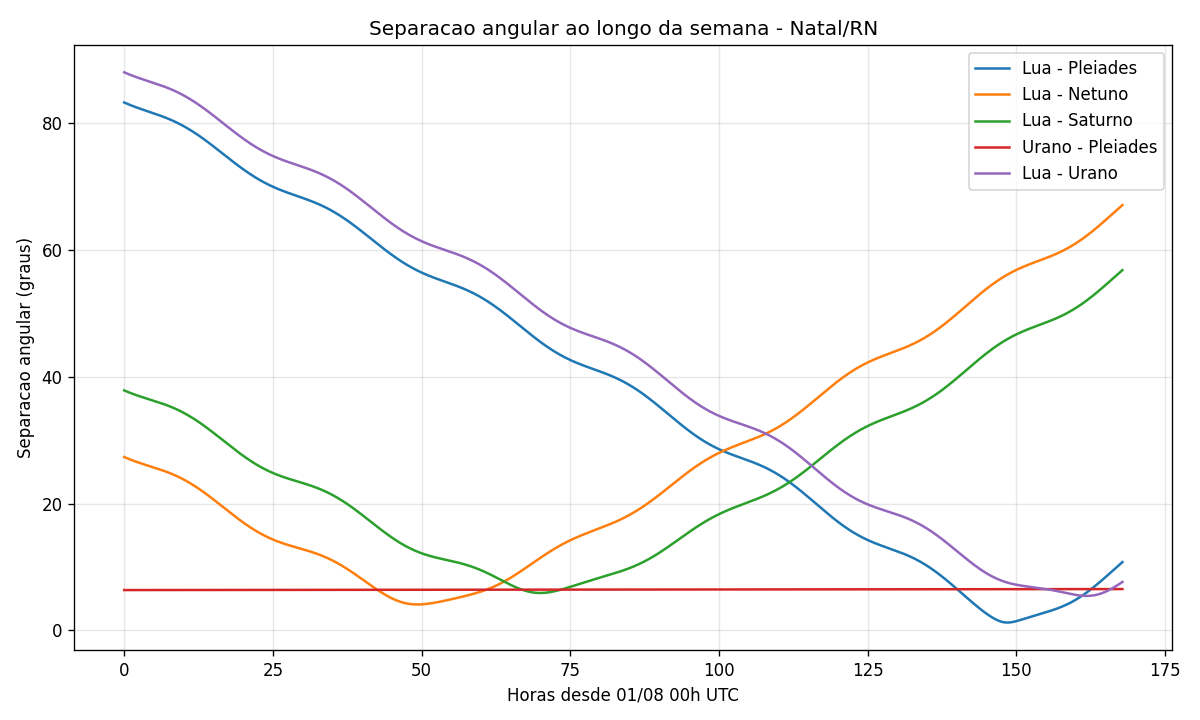
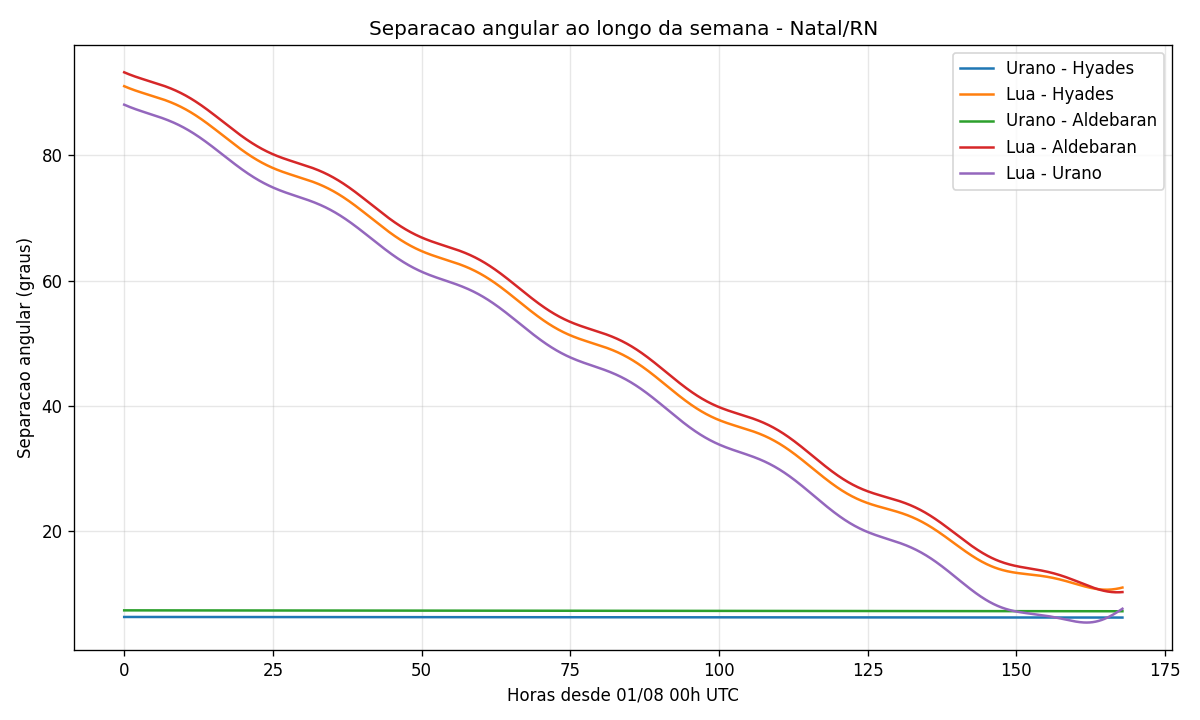
semanal

diff --git a/semanal.py b/semanal.py
@@ -1,9 +1,8 @@
 # Detector semanal de eventos astronomicos para o ceu de Natal/RN
-# Varre a janela dos proximos 7 dias e identifica aproximacoes (conjuncoes)
-# entre Lua, planetas e estrelas brilhantes, filtrando por visibilidade real
-# (altitude acima do horizonte e ceu escuro o suficiente).
-#
-# Para rodar toda semana, basta reexecutar o script: ele sempre parte de "hoje".
+# Varre a janela dos proximos 7 dias, identifica aproximacoes (conjuncoes)
+# entre Lua, planetas, estrelas, aglomerados e objetos de ceu profundo,
+# calcula um indice de qualidade de observacao para cada evento, agrupa os
+# alvos por tipo de sessao e monta um roteiro para a melhor noite da semana.
 
 import numpy as np
 import itertools
@@ -33,8 +32,10 @@ t = ts.utc(
     [h.hour for h in horarios], [h.minute for h in horarios]
 )
 
-# Catalogo de corpos a testar: nome, categoria, objeto skyfield
-# Para incluir mais estrelas, basta adicionar uma linha com RA/Dec (J2000)
+# Catalogo de corpos a testar: nome, categoria, objeto skyfield.
+# A categoria serve tanto para decidir quais pares comparar quanto para
+# classificar o tipo de sessao: sol, lua, planeta, estrela (referencia),
+# aglomerado (bom para binoculo) e profundo (ceu profundo, Messier).
 catalogo = []
 catalogo.append(('Sol', 'sol', eph['sun']))
 catalogo.append(('Lua', 'lua', eph['moon']))
@@ -50,11 +51,27 @@ catalogo.append(('Antares', 'estrela', Star(ra_hours=(16, 29, 24.4), dec_degrees
 catalogo.append(('Regulus', 'estrela', Star(ra_hours=(10, 8, 22.3), dec_degrees=(11, 58, 2))))
 catalogo.append(('Spica', 'estrela', Star(ra_hours=(13, 25, 11.6), dec_degrees=(-11, 9, 41))))
 catalogo.append(('Pollux', 'estrela', Star(ra_hours=(7, 45, 18.9), dec_degrees=(28, 1, 34))))
-catalogo.append(('Pleiades', 'estrela', Star(ra_hours=(3, 47, 0), dec_degrees=(24, 7, 0))))
+catalogo.append(('Albireo', 'estrela', Star(ra_hours=(19, 30, 43.3), dec_degrees=(27, 57, 35))))
+catalogo.append(('Pleiades', 'aglomerado', Star(ra_hours=(3, 47, 0), dec_degrees=(24, 7, 0))))
+catalogo.append(('Hyades', 'aglomerado', Star(ra_hours=(4, 27, 0), dec_degrees=(15, 52, 0))))
+catalogo.append(('M8', 'profundo', Star(ra_hours=(18, 3, 48), dec_degrees=(-24, 23, 12))))
+catalogo.append(('M22', 'profundo', Star(ra_hours=(18, 36, 24), dec_degrees=(-23, 54, 12))))
+catalogo.append(('M13', 'profundo', Star(ra_hours=(16, 41, 42), dec_degrees=(36, 28, 12))))
+catalogo.append(('M31', 'profundo', Star(ra_hours=(0, 42, 44), dec_degrees=(41, 16, 9))))
+
+# Magnitude aparente aproximada dos alvos nao-lunares. Usada para estimar a
+# facilidade de observacao (componente "magnitude" do indice de qualidade) e
+# para separar sessoes de iniciante de sessoes de desafio.
+magnitude_aproximada = {
+    'Mercurio': 0.5, 'Venus': -4.0, 'Marte': 0.5, 'Jupiter': -2.2, 'Saturno': 0.6,
+    'Urano': 5.8, 'Netuno': 7.8,
+    'Aldebaran': 0.85, 'Antares': 1.09, 'Regulus': 1.35, 'Spica': 0.97, 'Pollux': 1.14,
+    'Albireo': 3.1, 'Pleiades': 1.6, 'Hyades': 0.5,
+    'M8': 6.0, 'M22': 5.1, 'M13': 5.8, 'M31': 3.4,
+}
 
 # Calcula, de uma vez (vetorizado sobre toda a grade de tempo), a posicao
-# aparente de cada corpo. Guarda tambem o objeto "apparent" para usar depois
-# no calculo de separacao angular verdadeira entre pares.
+# aparente de cada corpo do catalogo.
 posicoes = {}
 for nome, categoria, corpo in catalogo:
     astrometrico = observador.at(t).observe(corpo).apparent()
@@ -62,19 +79,17 @@ for nome, categoria, corpo in catalogo:
     posicoes[nome] = {'categoria': categoria, 'alt': alt.degrees, 'az': az.degrees, 'apparent': astrometrico}
 
 alt_sol = posicoes['Sol']['alt']
-
-# Corpos brilhantes o suficiente para serem vistos ainda no crepusculo civil
 brilhantes = {'Lua', 'Venus', 'Jupiter', 'Mercurio'}
+fixos = {'estrela', 'aglomerado', 'profundo'}  # categorias cuja posicao relativa entre si nao muda
 
 nomes_para_comparar = [nome for nome, categoria, corpo in catalogo if categoria != 'sol']
 
 eventos = []
 
 for nome_a, nome_b in itertools.combinations(nomes_para_comparar, 2):
-    if posicoes[nome_a]['categoria'] == 'estrela' and posicoes[nome_b]['categoria'] == 'estrela':
-        continue  # duas estrelas fixas nao formam conjuncao, a distancia entre elas nao muda
+    if posicoes[nome_a]['categoria'] in fixos and posicoes[nome_b]['categoria'] in fixos:
+        continue  # dois objetos fixos nunca formam conjuncao, a distancia entre eles nao muda
 
-    # separacao angular verdadeira no ceu, nao a distancia euclidiana entre alt/az
     separacao = posicoes[nome_a]['apparent'].separation_from(posicoes[nome_b]['apparent']).degrees
 
     par_tem_corpo_brilhante = (nome_a in brilhantes) or (nome_b in brilhantes)
@@ -89,23 +104,69 @@ for nome_a, nome_b in itertools.combinations(nomes_para_comparar, 2):
     indice_minimo = int(np.argmin(separacao_visivel))
     separacao_minima = separacao_visivel[indice_minimo]
 
-    if separacao_minima < 15:
-        fracao_lua = None
-        if nome_a == 'Lua' or nome_b == 'Lua':
-            fracao_lua = almanac.fraction_illuminated(eph, 'moon', t[indice_minimo])
+    if separacao_minima >= 15:
+        continue
 
-        eventos.append({
-            'par': nome_a + ' - ' + nome_b,
-            'horario': horarios[indice_minimo],
-            'separacao': separacao_minima,
-            'alt_a': posicoes[nome_a]['alt'][indice_minimo],
-            'alt_b': posicoes[nome_b]['alt'][indice_minimo],
-            'az_a': posicoes[nome_a]['az'][indice_minimo],
-            'az_b': posicoes[nome_b]['az'][indice_minimo],
-            'fracao_lua': fracao_lua,
-        })
+    alt_a = posicoes[nome_a]['alt'][indice_minimo]
+    alt_b = posicoes[nome_b]['alt'][indice_minimo]
+    altitude_media = (alt_a + alt_b) / 2
+    altitude_minima = min(alt_a, alt_b)
 
-eventos.sort(key=lambda e: e['separacao'])
+    fracao_lua = None
+    if nome_a == 'Lua' or nome_b == 'Lua':
+        fracao_lua = almanac.fraction_illuminated(eph, 'moon', t[indice_minimo])
+
+    if nome_a == 'Lua':
+        outro_nome = nome_b
+    elif nome_b == 'Lua':
+        outro_nome = nome_a
+    else:
+        outro_nome = None
+
+    if outro_nome is not None and outro_nome in magnitude_aproximada:
+        magnitude_do_alvo = magnitude_aproximada[outro_nome]
+    else:
+        magnitudes_do_par = [magnitude_aproximada[n] for n in (nome_a, nome_b) if n in magnitude_aproximada]
+        magnitude_do_alvo = max(magnitudes_do_par) if len(magnitudes_do_par) > 0 else None
+
+    precisa_telescopio = magnitude_do_alvo is not None and magnitude_do_alvo > 5.5
+
+    tempo_acima_30 = np.sum(
+        visivel & (posicoes[nome_a]['alt'] > 30) & (posicoes[nome_b]['alt'] > 30)
+    ) * passo_minutos / 60
+
+    # Indice de qualidade da observacao, de 0 a 100, seguindo a ponderacao
+    # altitude 0,35 + ausencia da Lua 0,25 + magnitude 0,15 + tempo acima de
+    # 30 graus 0,15 + distancia do horizonte 0,10. Seeing, cobertura de
+    # nuvens, transparencia, umidade e vento nao entram ainda porque exigem
+    # uma previsao meteorologica ao vivo (por exemplo via Open-Meteo), o que
+    # fica bem como proximo passo separado deste script.
+    altitude_norm = min(altitude_media / 90, 1)
+    ausencia_lua = 1 - fracao_lua if fracao_lua is not None else 1
+    magnitude_norm = min(max((8 - magnitude_do_alvo) / 12, 0), 1) if magnitude_do_alvo is not None else 0.5
+    tempo_norm = min(tempo_acima_30 / 5, 1)
+    horizonte_norm = min(max(altitude_minima / 45, 0), 1)
+
+    score = 100 * (
+        0.35 * altitude_norm +
+        0.25 * ausencia_lua +
+        0.15 * magnitude_norm +
+        0.15 * tempo_norm +
+        0.10 * horizonte_norm
+    )
+
+    eventos.append({
+        'par': nome_a + ' - ' + nome_b,
+        'horario': horarios[indice_minimo],
+        'separacao': separacao_minima,
+        'alt_a': alt_a, 'alt_b': alt_b,
+        'az_a': posicoes[nome_a]['az'][indice_minimo], 'az_b': posicoes[nome_b]['az'][indice_minimo],
+        'fracao_lua': fracao_lua,
+        'precisa_telescopio': precisa_telescopio,
+        'score': score,
+    })
+
+eventos.sort(key=lambda e: e['score'], reverse=True)
 
 print('=' * 70)
 print('EVENTOS ASTRONOMICOS EM NATAL/RN')
@@ -116,22 +177,19 @@ for evento in eventos:
     print('')
     print(evento['par'])
     print('Horario local (UTC-3): ' + (evento['horario'] - timedelta(hours=3)).strftime('%d/%m %H:%M'))
-    print('Separacao angular: {:.1f} graus'.format(evento['separacao']))
+    print('Separacao angular: {:.1f} graus   Indice de qualidade: {:.1f}'.format(
+        evento['separacao'], evento['score']))
     print('Altitude: {:.1f} / {:.1f} graus   Azimute: {:.1f} / {:.1f} graus'.format(
         evento['alt_a'], evento['alt_b'], evento['az_a'], evento['az_b']))
     if evento['fracao_lua'] is not None:
         print('Lua iluminada: {:.0f}%'.format(evento['fracao_lua'] * 100))
-    if evento['separacao'] < 1:
-        print('Conjuncao bem fechada, cabe no mesmo campo de um telescopio de baixo aumento')
-    elif evento['separacao'] < 6:
-        print('Cabe no campo de um binoculo comum')
-    else:
-        print('Melhor apreciado a olho nu, campo largo')
+    if evento['precisa_telescopio']:
+        print('Alvo fraco, o binoculo pode nao ser suficiente, telescopio ajuda bastante aqui')
 
 if len(eventos) == 0:
     print('Nenhum evento com separacao menor que 15 graus nesta semana')
 
-# Grafico com a separacao angular ao longo do tempo para os 5 eventos mais fechados
+# Grafico com a separacao angular ao longo do tempo para os 5 eventos de maior indice de qualidade
 top_eventos = eventos[:5]
 if len(top_eventos) > 0:
     plt.figure(figsize=(10, 6))
@@ -149,89 +207,109 @@ if len(top_eventos) > 0:
     plt.savefig('separacao_semanal.png', dpi=120)
     plt.show()
 
-# Recomendacao final: separacao angular sozinha nao diz se o evento vale a pena.
-# Um alvo baixo no horizonte, uma Lua muito iluminada ofuscando o campo, ou um
-# objeto fraco demais para binoculo pesam contra o evento mesmo que a separacao
-# seja pequena. Esta secao monta uma pontuacao simples somando essas penalidades
-# (quanto menor a pontuacao, melhor a noite) e imprime a recomendacao da semana.
+# Painel da melhor noite da semana, no estilo "Observatorio Almeida"
+if len(eventos) > 0:
+    melhor_evento = eventos[0]
+    noite_data = (melhor_evento['horario'] - timedelta(hours=3)).date()
 
-# magnitude aparente aproximada dos alvos nao-lunares, usada so para saber se
-# o objeto e visivel a olho nu/binoculo (magnitude baixa) ou exige telescopio
-# (magnitude alta). Valores tipicos, planetas variam um pouco ao longo do ano.
-magnitude_aproximada = {
-    'Mercurio': 0.5,
-    'Venus': -4.0,
-    'Marte': 0.5,
-    'Jupiter': -2.2,
-    'Saturno': 0.6,
-    'Urano': 5.8,
-    'Netuno': 7.8,
-    'Aldebaran': 0.85,
-    'Antares': 1.09,
-    'Regulus': 1.35,
-    'Spica': 0.97,
-    'Pollux': 1.14,
-    'Pleiades': 1.6,
-}
+    objetos_da_noite = []
+    for evento in eventos:
+        data_evento = (evento['horario'] - timedelta(hours=3)).date()
+        if data_evento == noite_data:
+            for nome_obj in evento['par'].split(' - '):
+                if nome_obj not in objetos_da_noite:
+                    objetos_da_noite.append(nome_obj)
 
-for evento in eventos:
-    nome_a, nome_b = evento['par'].split(' - ')
-    altitude_minima = min(evento['alt_a'], evento['alt_b'])
+    classificacao = min(5, max(1, round(melhor_evento['score'] / 20)))
 
-    pontuacao = evento['separacao']
+    print('')
+    print('=' * 70)
+    print('OBSERVATORIO ALMEIDA')
+    print('=' * 70)
+    print('Noite da semana: ' + noite_data.strftime('%d/%m'))
+    print('Classificacao: ' + '*' * classificacao + '.' * (5 - classificacao) + ' (' + str(classificacao) + '/5)')
+    print('Objetos:')
+    for nome_obj in objetos_da_noite:
+        print('  ' + nome_obj)
+    print('Score: {:.1f}'.format(melhor_evento['score']))
 
-    if altitude_minima < 15:
-        pontuacao += (15 - altitude_minima) * 0.3  # alvo baixo no horizonte penaliza
+# Classificacao das sessoes: agrupa o catalogo por tipo de alvo e por dificuldade
+sessao_planetaria = [nome for nome, categoria, corpo in catalogo if categoria in ('planeta', 'lua')]
+sessao_ceu_profundo = [nome for nome, categoria, corpo in catalogo if categoria == 'profundo']
+sessao_binoculo = [nome for nome, categoria, corpo in catalogo if categoria == 'aglomerado']
 
-    if evento['fracao_lua'] is not None:
-        pontuacao += evento['fracao_lua'] * 5  # Lua muito iluminada ofusca o campo
-
-    if nome_a == 'Lua':
-        outro_nome = nome_b
-    elif nome_b == 'Lua':
-        outro_nome = nome_a
-    else:
-        outro_nome = None
-
-    if outro_nome is not None and outro_nome in magnitude_aproximada:
-        magnitude_do_alvo = magnitude_aproximada[outro_nome]
-    else:
-        magnitudes_do_par = [magnitude_aproximada[n] for n in (nome_a, nome_b) if n in magnitude_aproximada]
-        magnitude_do_alvo = max(magnitudes_do_par) if len(magnitudes_do_par) > 0 else None
-
-    precisa_telescopio = magnitude_do_alvo is not None and magnitude_do_alvo > 5.5
-    if precisa_telescopio:
-        pontuacao += (magnitude_do_alvo - 5.5) * 2  # alvo fraco penaliza mais forte
-
-    evento['pontuacao'] = pontuacao
-    evento['precisa_telescopio'] = precisa_telescopio
-
-eventos_recomendados = sorted(eventos, key=lambda e: e['pontuacao'])
+iniciantes = []
+desafio = []
+for nome, categoria, corpo in catalogo:
+    if categoria == 'sol':
+        continue
+    if nome == 'Lua':
+        iniciantes.append(nome)
+        continue
+    magnitude_nome = magnitude_aproximada.get(nome)
+    if magnitude_nome is not None and magnitude_nome <= 3.0:
+        iniciantes.append(nome)
+    elif magnitude_nome is not None:
+        desafio.append(nome)
 
 print('')
 print('=' * 70)
-print('RECOMENDACAO DA SEMANA')
+print('SESSOES DE OBSERVACAO')
 print('=' * 70)
+print('Sessao Planetaria')
+for nome_obj in sessao_planetaria:
+    print('  ' + nome_obj)
+print('Ceu Profundo')
+for nome_obj in sessao_ceu_profundo:
+    print('  ' + nome_obj)
+print('Binoculo')
+for nome_obj in sessao_binoculo:
+    print('  ' + nome_obj)
+print('Iniciantes')
+for nome_obj in iniciantes:
+    print('  ' + nome_obj)
+print('Desafio')
+for nome_obj in desafio:
+    print('  ' + nome_obj)
 
-if len(eventos_recomendados) > 0:
-    melhor = eventos_recomendados[0]
+# Roteiro de observacao para a melhor noite da semana: varre a janela escura
+# dessa noite em passos de 30 minutos e, a cada passo, aloca o alvo ainda nao
+# observado que estiver mais alto no ceu naquele momento, acima de 25 graus.
+# inicio_noite e fim_noite ja saem em horario UTC (mesma referencia de
+# "horarios") porque somamos 3 horas ao horario local desejado.
+if len(eventos) > 0:
+    inicio_noite = datetime(noite_data.year, noite_data.month, noite_data.day, 18, 0) + timedelta(hours=3)
+    fim_noite = inicio_noite + timedelta(hours=12)
+
+    indices_noite = [i for i, h in enumerate(horarios) if inicio_noite <= h < fim_noite and alt_sol[i] < -12]
+    indices_slots = indices_noite[::3]  # um slot a cada 30 minutos (passo original de 10 min)
+
+    ja_observados = set()
+    roteiro = []
+    for indice in indices_slots:
+        candidatos = [
+            nome for nome in nomes_para_comparar
+            if nome not in ja_observados and posicoes[nome]['alt'][indice] > 25
+        ]
+        if len(candidatos) == 0:
+            continue
+        alturas_candidatos = [posicoes[nome]['alt'][indice] for nome in candidatos]
+        escolhido = candidatos[int(np.argmax(alturas_candidatos))]
+        ja_observados.add(escolhido)
+        hora_local = (horarios[indice] - timedelta(hours=3)).strftime('%H:%M')
+        roteiro.append((hora_local, escolhido))
+        if len(roteiro) >= 8:
+            break
+
     print('')
-    print('Melhor opcao: ' + melhor['par'])
-    print('Horario local (UTC-3): ' + (melhor['horario'] - timedelta(hours=3)).strftime('%d/%m %H:%M'))
-    print('Separacao: {:.1f} graus, altitude minima: {:.1f} graus'.format(
-        melhor['separacao'], min(melhor['alt_a'], melhor['alt_b'])))
-    if melhor['fracao_lua'] is not None:
-        print('Lua com {:.0f}% de iluminacao nesse horario'.format(melhor['fracao_lua'] * 100))
-    if melhor['precisa_telescopio']:
-        print('Um dos alvos e fraco, o binoculo pode nao ser suficiente, telescopio ajuda bastante aqui')
+    print('=' * 70)
+    print('ROTEIRO DA NOITE - ' + noite_data.strftime('%d/%m'))
+    print('=' * 70)
+    if len(roteiro) > 0:
+        for indice_item, (hora_local, nome_obj) in enumerate(roteiro):
+            print(hora_local + '  ' + nome_obj)
+            if indice_item < len(roteiro) - 1:
+                print('   |')
+                print('   v')
     else:
-        print('Boa combinacao de altura, separacao e brilho, deve ficar bem visivel em binoculo ou olho nu')
-
-    print('')
-    print('Outras opcoes da semana, da mais recomendada para a menos recomendada:')
-    for evento in eventos_recomendados[1:6]:
-        aviso = ' (provavelmente precisa de telescopio)' if evento['precisa_telescopio'] else ''
-        horario_local = (evento['horario'] - timedelta(hours=3)).strftime('%d/%m %H:%M')
-        print('  ' + evento['par'] + ' em ' + horario_local + aviso)
-else:
-    print('Nenhum evento recomendavel encontrado nesta semana')
+        print('Nao foi possivel montar um roteiro para essa noite')
